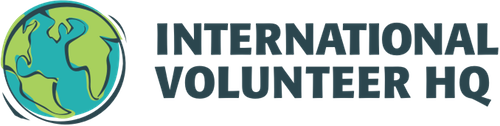
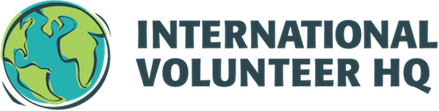
Update images

diff --git a/index.html b/index.html
@@ -111,7 +111,7 @@ layout: default
 
     <div class="row">
       <div class="col-lg-4 col-md-4 col-sm-12">
-        <div class="img-cut not-print"> <img src='images/ivhq.png'/> </div>
+        <div class="img-cut not-print"> <img class="ivhq-img" src='images/ivhq.png'/> </div>
         <div class='block'>
           <h6>2017.07 - Current</h6>
           <p> International Volunteer HQ, Senior Developer </p>
@@ -209,7 +209,7 @@ layout: default
         <dl class="timeline-series">
           <dt class="timeline-event" id="2015last"></dt>
           <dd class="timeline-event-content" id="2015lastEX">
-            <div class="img-cut"> <img src='images/ivhq.png'/> </div>
+            <div class="img-cut"> <img class="ivhq-img" src='images/ivhq.png'/> </div>
             <p>International Volunteer HQ, Senior Developer</p>
           </dd>
         </dl>

diff --git a/_sass/_base.scss b/_sass/_base.scss
@@ -171,6 +171,10 @@ pre {
     }
 }
 
+.ivhq-img {
+    width: 85%;
+}
+
 
 
 /**
